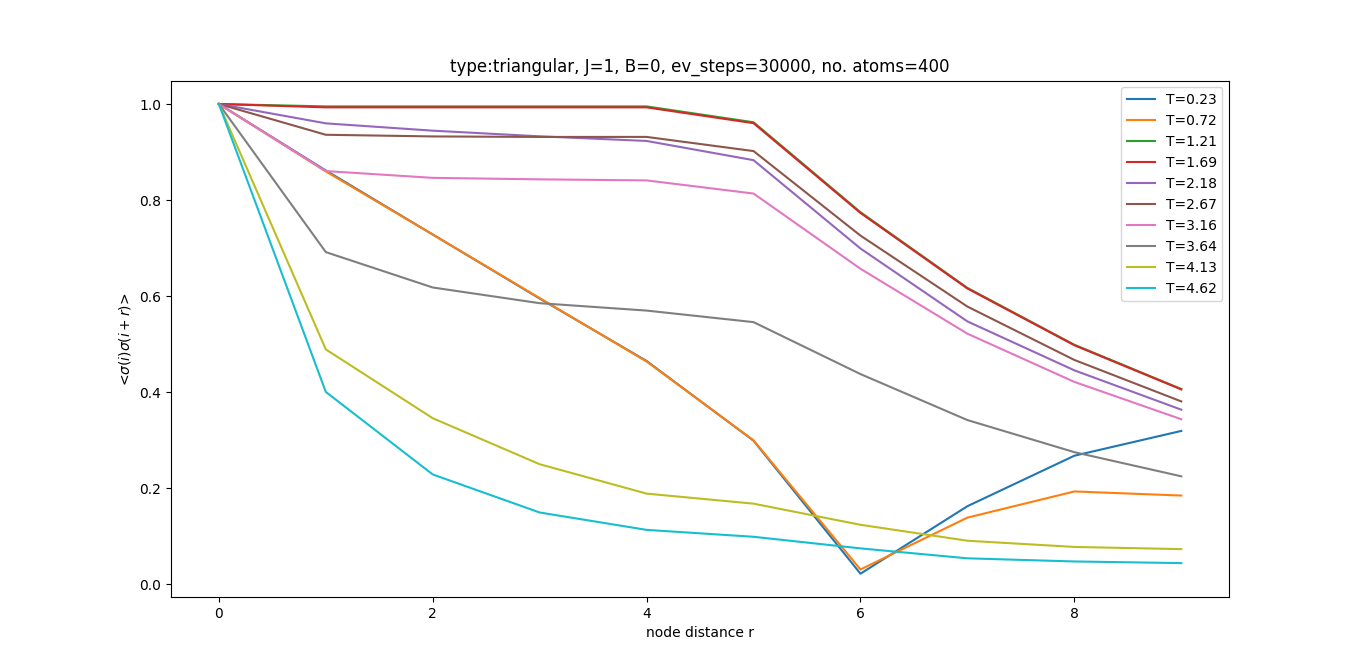
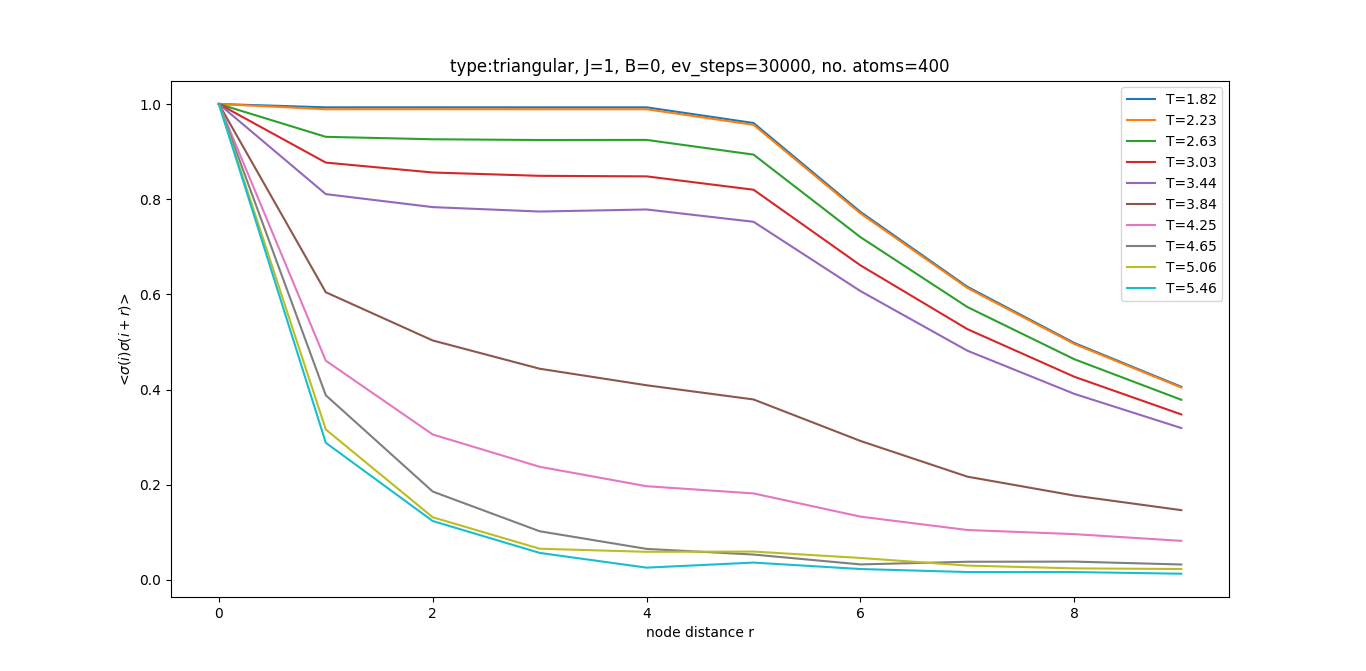
new results, better p sweep

diff --git a/sweep_on_p.py b/sweep_on_p.py
@@ -3,50 +3,39 @@ import matplotlib.pyplot as plt
 import numpy as np
 import time
 from numba import jit
+import scipy as sp
 
 time_start = time.perf_counter()
 
-k_b = 8.617333262e-5
-lattice_type = 'ER'  # write square, triangular or hexagonal, ER
 J = 1  # spin coupling constant
 B = 0  # external magnetic field
 M = 10  # lattice size MxN
 N = 10
-steps = 15000  # number of evolution steps per given temperature
-steps_to_eq = 10000  # steps until equilibrium is reached
-repeat = 1  # number of trials per temperature to average over
+steps = 30000  # number of evolution steps per given temperature
+steps_to_eq = 20000  # steps until equilibrium is reached
+repeat = 10  # number of trials per temperature to average over
 nbstrap = 1000
 
-lenth_p_sweep = np.linspace(1/(N*M), 4/(N*M), 4)  # 0.5 1 2.5 2
+lenth_p_sweep = np.arange(1/(N*M), 10/(N*M), 1/(M*N))
+print(lenth_p_sweep)
 
-Tc = (2*abs(J))/np.log(1+np.sqrt(2))  # Critical temperature
-# Critical temperature of hexagonal lattic  at J = 1
-Tc_h = 2/np.log(2 + np.sqrt(3))
-Tc_t = 4 / np.sqrt(3)  # Critical temperature of triangular lattice at J = 1
-
-
-T = np.linspace(0.4*Tc, 2*Tc, 20)
+T = np.linspace(0.5, 5, 20)
 ones = np.ones(len(T))
 beta = ones/(T)
 
 # function creates lattice
-
-
 def lattice(M, N, p):
     lattice = nx.erdos_renyi_graph(M*N, p, seed=None, directed=False)
     return lattice
 
 # count number of sites in lattice
-
-
 def num(G):
     n = 0
     for node in G:
         n += 1
     return n
 
-
-@jit(nopython=True, nogil=True)
+@jit(nopython=True)
 def step(A_dense, beta, num):
 
     def mean_square(data):
@@ -106,11 +95,9 @@ def step(A_dense, beta, num):
                 nnsum = np.sum(A, axis=1)
 
                 # What decides the flip is
-                dE = 2*J*np.multiply(nnsum, spinlist) + \
-                    2*B*spinlist  # change in energy
+                dE = 2*J*np.multiply(nnsum, spinlist) + 2*B*spinlist  # change in energy
 
-                E = -J*sum(np.multiply(nnsum, spinlist)) - \
-                    B*sum(spinlist)  # total energy
+                E = -J*sum(np.multiply(nnsum, spinlist)) - B*sum(spinlist)  # total energy
                 M = np.sum(spinlist)  # total magnetisation
 
                 # change spins if energetically favourable or according to thermal noise
@@ -181,26 +168,22 @@ def step(A_dense, beta, num):
 
     return E_beta, M_beta, cv_beta, xi_beta, num
 
-
 def main():
     cv_array = []
     xi_array = []
     m_array = []
-
     for p in lenth_p_sweep:
         # create lattice
         G = lattice(M, N, p)
 
         # convert node labels to integers
-        G = nx.convert_node_labels_to_integers(
-            G, first_label=0, ordering='default', label_attribute=None)
+        G = nx.convert_node_labels_to_integers(G, first_label=0, ordering='default', label_attribute=None)
 
         # get number of nodes
         n = num(G)
 
         # extract adjacency matrix and convert to numpy dense array
-        Adj = nx.adjacency_matrix(
-            G, nodelist=None, dtype=None, weight='weight')
+        Adj = nx.adjacency_matrix(G, nodelist=None, dtype=None, weight='weight')
         A_dense = Adj.todense()
 
         # iterate steps and sweep trough beta
@@ -210,7 +193,27 @@ def main():
         xi_array.append(xi_beta)
         m_array.append(M_beta)
 
-    print(len(cv_array))
+    print(xi_array)
+
+    critical = []
+    for a in range(len(lenth_p_sweep)):
+        critical_index = xi_array[a].argmax(axis=0)
+        critical_temp = T[critical_index]
+        critical.append(critical_temp)
+
+    print(critical)
+    
+    line = sp.stats.linregress(lenth_p_sweep, critical)
+    slope = line[0]
+    intercept = line[1]
+
+    plt.scatter(lenth_p_sweep, critical, label='simulated')
+    plt.plot(lenth_p_sweep, slope*lenth_p_sweep+intercept, label='fit')
+    plt.title('Critical temperature')
+    plt.xlabel('p')
+    plt.ylabel('Tc')
+    plt.legend()
+    plt.show()
 
     # for normalization purposes
     n_normalize = n*np.ones(len(E_beta))
@@ -218,23 +221,20 @@ def main():
     time_elapsed = (time.perf_counter() - time_start)
     print("checkpoint %5.1f secs" % (time_elapsed))
 
-    # plot Energy and magnetisation per site as a function of temperature
+    #plot magnetisation for different p's
     fig = plt.figure()
     ax1 = fig.add_subplot(111)
     # ax2 = fig.add_subplot(2, 2, 2)
     # ax3 = fig.add_subplot(2, 2, 3)
     # ax4 = fig.add_subplot(2, 2, 4)
-    ax1.scatter(T, m_array[0]/n_normalize, color='orange',
-                label='p={}/N*M'.format(round(lenth_p_sweep[0]*N*M)))
-    ax1.scatter(T, m_array[1]/n_normalize, color='blue',
-                label='p={}/N*M'.format(round(lenth_p_sweep[1]*N*M)))
-    ax1.scatter(T, m_array[2]/n_normalize, color='green',
-                label='p={}/N*M'.format(round(lenth_p_sweep[2]*N*M)))
-    ax1.scatter(T, m_array[3]/n_normalize, color='black',
-                label='p={}/N*M'.format(round(lenth_p_sweep[3]*N*M)))
+    ax1.plot(T, m_array[0]/n_normalize, color='orange', label='p={}/N*M'.format(round(lenth_p_sweep[0]*N*M)))
+    ax1.plot(T, m_array[1]/n_normalize, color='blue', label='p={}/N*M'.format(round(lenth_p_sweep[1]*N*M)))
+    ax1.plot(T, m_array[2]/n_normalize, color='green', label='p={}/N*M'.format(round(lenth_p_sweep[2]*N*M)))
+    ax1.plot(T, m_array[3]/n_normalize, color='black', label='p={}/N*M'.format(round(lenth_p_sweep[3]*N*M)))
     ax1.set_ylabel('$<\sqrt{|M^2|}>$')
-    ax1.set_xlabel('T/Tc_square')
+    ax1.set_xlabel('T')
     fig.tight_layout()
+    plt.legend()
     plt.show()
 
     # plot Energy and magnetisation per site as a function of temperature
@@ -243,54 +243,25 @@ def main():
     ax2 = fig.add_subplot(2, 2, 2)
     ax3 = fig.add_subplot(2, 2, 3)
     ax4 = fig.add_subplot(2, 2, 4)
-    ax1.scatter(T/Tc, xi_array[0]/n_normalize, color='orange')
+    ax1.scatter(T, xi_array[0]/n_normalize, color='orange')
     ax1.set_ylabel('$\Xi$')
     ax1.set_xlabel('T/Tc_square')
     ax1.set_title('{}/N*M'.format(round(lenth_p_sweep[0]*N*M), 2))
-    ax2.scatter(T/Tc, xi_array[1]/n_normalize, color='blue')
+    ax2.scatter(T, xi_array[1]/n_normalize, color='blue')
     ax2.set_ylabel('$\Xi$')
     ax2.set_xlabel('T/Tc_square')
     ax2.set_title('{}/N*M'.format(round(lenth_p_sweep[1]*N*M, 2)))
-    ax3.scatter(T/Tc, xi_array[2]/n_normalize, color='green')
+    ax3.scatter(T, xi_array[2]/n_normalize, color='green')
     ax3.set_ylabel('$\Xi$')
     ax3.set_xlabel('T/Tc_square')
     ax3.set_title('{}/N*M'.format(round(lenth_p_sweep[2]*N*M, 2)))
-    ax4.scatter(T/Tc, xi_array[3]/n_normalize, color='black')
+    ax4.scatter(T, xi_array[3]/n_normalize, color='black')
     ax4.set_ylabel('$\Xi$')
     ax4.set_xlabel('T/Tc_square')
     ax4.set_title('{}/N*M'.format(round(lenth_p_sweep[3]*N*M, 2)))
-    fig.suptitle('{} no.atoms={}  B={} J={}, ev_steps={}, samples/T={}'.format(
-        lattice_type, n, B, J, steps, repeat))
+    fig.suptitle('ER no.atoms={}  B={} J={}, ev_steps={}, samples/T={}'.format(n, B, J, steps, repeat))
     fig.tight_layout()
     plt.show()
-
-    # plot Energy and magnetisation per site as a function of temperature
-    fig = plt.figure()
-    ax1 = fig.add_subplot(2, 2, 1)
-    ax2 = fig.add_subplot(2, 2, 2)
-    ax3 = fig.add_subplot(2, 2, 3)
-    ax4 = fig.add_subplot(2, 2, 4)
-    ax1.scatter(T, m_array[0]/n_normalize, color='orange')
-    ax1.set_ylabel('$<\sqrt{|M^2|}>$')
-    ax1.set_xlabel('T')
-    ax1.set_title('p={}/N*M'.format(round(lenth_p_sweep[0]*N*M), 2))
-    ax2.scatter(T, m_array[1]/n_normalize, color='blue')
-    ax2.set_ylabel('$<\sqrt{|M^2|}>$')
-    ax2.set_xlabel('T')
-    ax2.set_title('p={}/N*M'.format(round(lenth_p_sweep[1]*N*M, 2)))
-    ax3.scatter(T, m_array[2]/n_normalize, color='green')
-    ax3.set_ylabel('$<\sqrt{|M^2|}>$')
-    ax3.set_xlabel('T')
-    ax3.set_title('p={}/N*M'.format(round(lenth_p_sweep[2]*N*M, 2)))
-    ax4.scatter(T, m_array[3]/n_normalize, color='black')
-    ax4.set_ylabel('$<\sqrt{|M^2|}>$')
-    ax4.set_xlabel('T')
-    ax4.set_title('p={}/N*M'.format(round(lenth_p_sweep[3]*N*M, 2)))
-    fig.suptitle('{} no.atoms={}  B={} J={}, ev_steps={}, samples/T={}'.format(
-        lattice_type, n, B, J, steps, repeat))
-    fig.tight_layout()
-    plt.show()
-
 
 if __name__ == "__main__":
     main()

diff --git a/correlation_lenght_v3.py b/correlation_lenght_v3.py
@@ -7,7 +7,7 @@ from numba import jit
 time_start = time.perf_counter()
 
 lattice_type = 'ER'              #write square, triangular or hexagonal
-p = 0.04
+p = 0.03
 
 J = 1                             #spin coupling constant
 B = 0                                #external magnetic field
@@ -15,11 +15,11 @@ M = 20                               #lattice size MxN
 N = 20
 steps = 30000                         #number of evolution steps per given temperature
 max_r = 10
-repeat = 10
+repeat = 1
 
 Tc = (2*abs(J))/np.log(1+np.sqrt(2))        #Critical temperature
 Tc_h = 2/np.log(2 + np.sqrt(3))             #Critical temperature of hexagonal lattic  at J = 1
-Tc_t = 4 / np.sqrt(3)                       #Critical temperature of triangular lattice at J = 1 
+Tc_t = 4 / np.log(3)                       #Critical temperature of triangular lattice at J = 1 
 
 if lattice_type == "square":
     T = np.linspace(0.5*Tc, 1.5*Tc, 10) 
@@ -27,10 +27,10 @@ elif lattice_type == "hexagonal":
     T = np.linspace(0.5*Tc_h, 1.5*Tc_h, 10) 
     Tc = Tc_h
 elif lattice_type == "triangular":
-    T = np.linspace(0.1*Tc_t, 2*Tc_t, 10) 
+    T = np.linspace(0.5*Tc_t, 1.5*Tc_t, 10) 
     Tc = Tc_t
 elif lattice_type == "ER":
-    T = np.linspace(1, 3.5, 10) 
+    T = np.linspace(4, 9, 10) 
     Tc = 1
 else: print("Errore!")
 
@@ -153,7 +153,7 @@ def main():
     plt.xlabel('node distance r')
     plt.ylabel('<$\sigma(i)\sigma(i+r)$>')
     plt.legend()
-    plt.title('type:{}, J={}, B={}, ev_steps={}, no. atoms={}'.format(lattice_type, J, B, steps, M*N))
+    plt.title('type:{}, J={}, B={}, ev_steps={}, no. atoms={}, p={}'.format(lattice_type, J, B, steps, M*N, p))
 
     time_elapsed = (time.perf_counter() - time_start)
     print ("checkpoint %5.1f secs" % (time_elapsed))

diff --git a/weighted_network_plot_v3_sweep.py b/weighted_network_plot_v3_sweep.py
@@ -9,17 +9,17 @@ from numba import jit
 time_start = time.perf_counter()
 
 k_b = 8.617333262e-5
-lattice_type = 'ER'            #write square, triangular or hexagonal
+lattice_type = 'square'            #write square, triangular or hexagonal
 J = 1                        #spin coupling constant
 B = 0                     #external magnetic field
 M = 10                          #lattice size MxN
 N = 10
-steps = 20000                      #number of evolution steps per given temperature
+steps = 30000                      #number of evolution steps per given temperature
 repeat = 20
 
 Tc = (2*abs(J))/np.log(1+np.sqrt(2))        #Critical temperature
 Tc_h = 2/np.log(2 + np.sqrt(3))             #Critical temperature of hexagonal lattic  at J = 1
-Tc_t = 4 / np.sqrt(3)                       #Critical temperature of triangular lattice at J = 1 
+Tc_t = 4 / np.log(3)                       #Critical temperature of triangular lattice at J = 1 
 
 if lattice_type == "square":
     T = np.linspace(0.5*Tc, 1.5*Tc, 20) 

diff --git a/ising_network_clustering_sweep_v5.py b/ising_network_clustering_sweep_v5.py
@@ -17,7 +17,7 @@ repeat = 20
 
 Tc = (2*abs(J))/np.log(1+np.sqrt(2))        #Critical temperature
 Tc_h = 2/np.log(2 + np.sqrt(3))             #Critical temperature of hexagonal lattic  at J = 1
-Tc_t = 4 / np.sqrt(3)                       #Critical temperature of triangular lattice at J = 1 
+Tc_t = 4 / np.log(3)                       #Critical temperature of triangular lattice at J = 1 
 
 if lattice_type == "square":
     T = np.linspace(0.5*Tc, 1.5*Tc, 20) 
@@ -25,7 +25,7 @@ elif lattice_type == "hexagonal":
     T = np.linspace(0.5*Tc_h, 1.5*Tc_h, 20) 
     Tc = Tc_h
 elif lattice_type == "triangular":
-    T = np.linspace(0.5*Tc_t, 2*Tc_t, 20) 
+    T = np.linspace(0.5*Tc_t, 1.5*Tc_t, 20) 
     Tc = Tc_t
 elif lattice_type == "ER":
     T = np.linspace(1, 3.5, 20) 

diff --git a/weighted_network_double_plots_v2.py b/weighted_network_double_plots_v2.py
@@ -12,7 +12,8 @@ lattice_type = 'triangular'             #write square, triangular or hexagonal
 J = 1                            #spin coupling constant
 
 Tc = (2*abs(J))/np.log(1+np.sqrt(2))         #Onsager critical temperature for square lattice
-print(Tc)
+Tc_h = 2/np.log(2 + np.sqrt(3))             #Critical temperature of hexagonal lattic  at J = 1
+Tc_t = 4 / np.log(3)                       #Critical temperature of triangular lattice at J = 1 
 
 T_sample = 30
 B_sample = 10

diff --git a/ising_network_clustering_doublesweep_v2.py b/ising_network_clustering_doublesweep_v2.py
@@ -15,7 +15,7 @@ steps = 20000
 
 Tc = (2*abs(J))/np.log(1+np.sqrt(2))         #Onsager critical temperature for square lattice
 Tc_h = 2/np.log(2 + np.sqrt(3))             #Critical temperature of hexagonal lattic  at J = 1
-Tc_t = 4 / np.sqrt(3)                       #Critical temperature of triangular lattice at J = 1 
+Tc_t = 4 / np.log(3)                       #Critical temperature of triangular lattice at J = 1 
 print(Tc_h)
 print(Tc)
 
